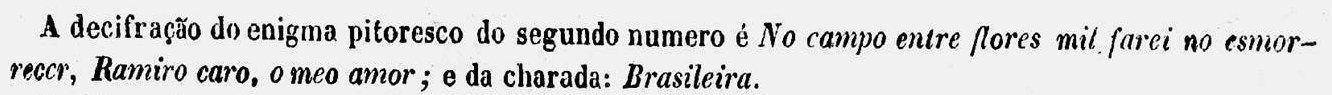
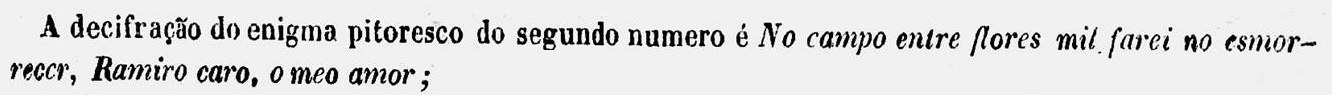
Don't give away the charada's answer on the enigma pages
Remove it from the text in all three languages and cover it in the
printed-solution clipping and the page-72 scan.

Claude-Session: https://claude.ai/code/session_01YYe7oe1eryyY7ZpUAcCfoz

Changed region(s): [[0.3078, 0.6526, 0.5848, 0.9474], [0.4002, 0.5263, 0.4309, 0.5474]]

diff --git a/games/enigma-pitoresco.html b/games/enigma-pitoresco.html
@@ -274,7 +274,7 @@
     <p class="answer-g" data-i18n="answerGloss"></p>
 
     <h2 id="revealTitle" data-i18n="publishedTitle">As the magazine printed it</h2>
-    <div class="clip"><img src="../images/enigma-pitoresco-solucao.jpg" alt="Printed solution: A decifração do enigma pitoresco do segundo numero é No campo entre flores mil farei no esmorrecer, Ramiro caro, o meo amor; e da charada: Brasileira." width="1332" height="95"></div>
+    <div class="clip"><img src="../images/enigma-pitoresco-solucao.jpg" alt="Printed solution: A decifração do enigma pitoresco do segundo numero é No campo entre flores mil farei no esmorrecer, Ramiro caro, o meo amor; followed by the charada's answer, covered here." width="1332" height="95"></div>
     <p class="clipcap" data-i18n="publishedCap"></p>
 
     <h3 data-i18n="keyTitle">Picture by picture</h3>
@@ -339,7 +339,7 @@
       revealEyebrow: "The answer",
       answerGloss: "“In the field among a thousand flowers I will not lose heart, dear Ramiro, my love.”",
       publishedTitle: "As the magazine printed it",
-      publishedCap: "The solution, printed in the following issue of Illustração Brazileira (p. 72).",
+      publishedCap: "The solution, printed in the following issue of Illustração Brazileira (p. 72). The charada's answer, printed after it, is covered so it doesn't spoil that game.",
       keyTitle: "Picture by picture",
       looseTitle: "Loose ends",
       loose1: "Three readings are best guesses: Mercury as nó, the Italian city as Pó, and the seated man as roer. The printed solution confirms the sounds, not the words behind them.",
@@ -350,7 +350,7 @@
       read2: "Yet the sentence cannot be built without it. ES, the first syllable of esmorecer, comes only from reading a Black man as escravo. Every other human figure stands for something else: gods for love and for a knot, a crowned man for kingship, a white man in a top hat for an everyday action. Only the Black figure stands for a condition of servitude.",
       read3: "In 1854 the Brazilian campo, the field of the love note, was worked overwhelmingly by enslaved people. The puzzle turns that labor into one disposable syllable inside a romance.",
       reflect: "To finish the sentence, you had to read one man the way a slaveholding society read him. What else in these pictures did you accept without noticing?",
-      analyzeText: "Zoom in on the enigma, the page it was printed on and the page where its answer appeared, and see how each picture carries its message. The same page also holds the charada pitoresca, whose answer is brazileira.",
+      analyzeText: "Zoom in on the enigma, the page it was printed on and the page where its answer appeared, and see how each picture carries its message. The same page also holds the charada pitoresca.",
       charadaCta: "Play the charada", analyzeCta: "Analyze the enigma",
       credit: "“Enigma pitoresco,” offered by João José de Moraes Tavares to Dr. Ernesto de S. Oliveira Coutinho, Illustração Brazileira, Rio de Janeiro, 1854; solution from the following issue. Biblioteca Nacional Digital do Brasil.",
       orphan: "No picture gives this o."
@@ -382,7 +382,7 @@
       revealEyebrow: "La respuesta",
       answerGloss: "«En el campo, entre mil flores, no me desanimaré, querido Ramiro, mi amor.»",
       publishedTitle: "Tal como lo imprimió la revista",
-      publishedCap: "La solución, impresa en el número siguiente de Illustração Brazileira (p. 72).",
+      publishedCap: "La solución, impresa en el número siguiente de Illustração Brazileira (p. 72). La respuesta de la charada, impresa a continuación, está tapada para no estropear ese juego.",
       keyTitle: "Imagen por imagen",
       looseTitle: "Cabos sueltos",
       loose1: "Tres lecturas son hipótesis: Mercurio como nó, la ciudad italiana como Pó y el hombre sentado como roer. La solución impresa confirma los sonidos, no las palabras que hay detrás.",
@@ -393,7 +393,7 @@
       read2: "Sin embargo, la frase no puede construirse sin ella. ES, la primera sílaba de esmorecer, sale solo de leer a un hombre negro como escravo. Todas las demás figuras humanas representan otra cosa: dioses para el amor y para un nudo, un hombre coronado para la realeza, un hombre blanco con sombrero de copa para una acción cotidiana. Solo la figura negra representa una condición de servidumbre.",
       read3: "En 1854, el campo brasileño, el campo de la nota de amor, lo trabajaban sobre todo personas esclavizadas. El acertijo convierte ese trabajo en una sílaba desechable dentro de un romance.",
       reflect: "Para terminar la frase, tuviste que leer a un hombre como lo leía una sociedad esclavista. ¿Qué más aceptaste en estas imágenes sin darte cuenta?",
-      analyzeText: "Acércate al enigma, a la página donde se imprimió y a la página donde apareció su respuesta, y mira cómo cada imagen transmite su mensaje. La misma página trae también la charada pitoresca, cuya respuesta es brazileira.",
+      analyzeText: "Acércate al enigma, a la página donde se imprimió y a la página donde apareció su respuesta, y mira cómo cada imagen transmite su mensaje. La misma página trae también la charada pitoresca.",
       charadaCta: "Jugar la charada", analyzeCta: "Analizar el enigma",
       credit: "«Enigma pitoresco», ofrecido por João José de Moraes Tavares al Dr. Ernesto de S. Oliveira Coutinho, Illustração Brazileira, Río de Janeiro, 1854; solución del número siguiente. Biblioteca Nacional Digital do Brasil.",
       orphan: "Ninguna imagen da esta o."
@@ -425,7 +425,7 @@
       revealEyebrow: "A resposta",
       answerGloss: "“No campo, entre mil flores, não vou esmorecer, Ramiro querido, meu amor.”",
       publishedTitle: "Como a revista publicou",
-      publishedCap: "A decifração, publicada no número seguinte da Illustração Brazileira (p. 72).",
+      publishedCap: "A decifração, publicada no número seguinte da Illustração Brazileira (p. 72). A resposta da charada, impressa em seguida, está coberta para não estragar aquele jogo.",
       keyTitle: "Imagem por imagem",
       looseTitle: "Pontas soltas",
       loose1: "Três leituras são hipóteses: Mercúrio como nó, a cidade italiana como Pó e o homem sentado como roer. A decifração impressa confirma os sons, não as palavras por trás deles.",
@@ -436,7 +436,7 @@
       read2: "Mas a frase não se monta sem ela. ES, a primeira sílaba de esmorecer, só sai de ler um homem negro como escravo. Todas as outras figuras humanas representam outra coisa: deuses para o amor e para um nó, um homem coroado para a realeza, um homem branco de cartola para uma ação cotidiana. Só a figura negra representa uma condição de servidão.",
       read3: "Em 1854, o campo brasileiro, o campo do bilhete de amor, era trabalhado sobretudo por pessoas escravizadas. O enigma transforma esse trabalho numa sílaba descartável dentro de um romance.",
       reflect: "Para terminar a frase, você teve de ler um homem como uma sociedade escravista o lia. O que mais nestas imagens você aceitou sem perceber?",
-      analyzeText: "Aproxime-se do enigma, da página em que foi impresso e da página em que saiu a resposta, e veja como cada imagem transmite sua mensagem. A mesma página traz também a charada pitoresca, cuja resposta é brazileira.",
+      analyzeText: "Aproxime-se do enigma, da página em que foi impresso e da página em que saiu a resposta, e veja como cada imagem transmite sua mensagem. A mesma página traz também a charada pitoresca.",
       charadaCta: "Jogar a charada", analyzeCta: "Analisar o enigma",
       credit: "“Enigma pitoresco”, oferecido por João José de Moraes Tavares ao Dr. Ernesto de S. Oliveira Coutinho, Illustração Brazileira, Rio de Janeiro, 1854; decifração do número seguinte. Biblioteca Nacional Digital do Brasil.",
       orphan: "Nenhuma imagem dá este o."

diff --git a/games/enigma-pitoresco-analysis.html b/games/enigma-pitoresco-analysis.html
@@ -406,29 +406,29 @@
                    "A dedicatória mostra para quem o enigma foi feito: homens instruídos e titulados, escrevendo uns para os outros e para os leitores letrados, em geral abastados, de uma revista carioca. O leitor que o enigma imagina vê as pessoas escravizadas de fora, como uma categoria com nome. Nada nele imagina uma pessoa escravizada, ou um brasileiro negro livre, como quem segura a revista."] }
     },
     charada: {
-      en: { title: "Two puzzles, one page", label: "Below the enigma, the charada pitoresca adds up to brazileira.",
-            body: ["The enigma shares its page with the charada pitoresca, whose answer is brazileira: an idealized Indigenous man plus cultivated land equals a white, Europeanized Brazilian woman.",
+      en: { title: "Two puzzles, one page", label: "Below the enigma, the charada pitoresca turns three pictures into one word about who belongs to the nation.",
+            body: ["The enigma shares its page with the charada pitoresca, a three-picture puzzle: an idealized Indigenous man and a fenced, cultivated field add up to a single word, illustrated by a white woman in European fashion.",
                    "Read together, the two puzzles divide the work. The charada defines who the Brazilian is, and Black Brazilians do not appear in it at all. The enigma is where a Black man does appear, and only as escravo, a syllable in someone else's love note. Between them, they draw the boundaries of the nation the magazine imagined."] },
-      es: { title: "Dos acertijos, una página", label: "Debajo del enigma, la charada pitoresca suma brazileira.",
-            body: ["El enigma comparte página con la charada pitoresca, cuya respuesta es brazileira: un hombre indígena idealizado más una tierra cultivada da como resultado una mujer brasileña blanca y europeizada.",
+      es: { title: "Dos acertijos, una página", label: "Debajo del enigma, la charada pitoresca convierte tres imágenes en una palabra sobre quién pertenece a la nación.",
+            body: ["El enigma comparte página con la charada pitoresca, un acertijo de tres imágenes: un hombre indígena idealizado y un campo cercado y cultivado suman una sola palabra, ilustrada por una mujer blanca vestida a la moda europea.",
                    "Leídos juntos, los dos acertijos se reparten el trabajo. La charada define quién es brasileño, y los brasileños negros no aparecen en ella. El enigma es donde sí aparece un hombre negro, y solo como escravo, una sílaba en la nota de amor de otra persona. Entre los dos trazan los límites de la nación que imaginaba la revista."] },
-      pt: { title: "Dois enigmas, uma página", label: "Abaixo do enigma, a charada pitoresca soma brazileira.",
-            body: ["O enigma divide a página com a charada pitoresca, cuja resposta é brazileira: um homem indígena idealizado mais a terra cultivada resulta numa mulher brasileira branca e europeizada.",
+      pt: { title: "Dois enigmas, uma página", label: "Abaixo do enigma, a charada pitoresca transforma três imagens numa palavra sobre quem pertence à nação.",
+            body: ["O enigma divide a página com a charada pitoresca, uma charada de três imagens: um homem indígena idealizado e um campo cercado e cultivado somam uma única palavra, ilustrada por uma mulher branca vestida à moda europeia.",
                    "Lidos juntos, os dois enigmas dividem o trabalho. A charada define quem é brasileiro, e os brasileiros negros não aparecem nela. O enigma é onde um homem negro aparece, e só como escravo, uma sílaba no bilhete de amor de outra pessoa. Juntos, eles traçam os limites da nação que a revista imaginava."] }
     },
     solution: {
       en: { title: "The answer, one issue later", label: "The magazine printed the solution in its following number, with two slips.",
-            body: ["The solution appeared near the bottom of page 72 of the following issue, beside the answer to the charada, Brasileira.",
+            body: ["The solution appeared near the bottom of page 72 of the following issue, followed by the answer to the charada, covered here so it doesn't spoil that game.",
                    "> No campo entre flores mil farei no esmorrecer, Ramiro caro, o meo amor.",
                    "Even the printed answer has slips. It says no (in) where the tilde over the ship asks for não (not), and it doubles the r in esmorecer.",
                    "The magazine gave only the sentence, not the reasoning. Readers worked out for themselves how each picture became a sound, which is why a few readings, such as Mercury as nó, are still uncertain today."] },
       es: { title: "La respuesta, un número después", label: "La revista imprimió la solución en el número siguiente, con dos erratas.",
-            body: ["La solución apareció cerca del pie de la página 72 del número siguiente, junto a la respuesta de la charada, Brasileira.",
+            body: ["La solución apareció cerca del pie de la página 72 del número siguiente, seguida de la respuesta de la charada, tapada aquí para no estropear ese juego.",
                    "> No campo entre flores mil farei no esmorrecer, Ramiro caro, o meo amor.",
                    "Incluso la respuesta impresa tiene erratas. Dice no (en) donde la tilde sobre el barco pide não (no), y duplica la r de esmorecer.",
                    "La revista dio solo la frase, no el razonamiento. Los lectores averiguaban por su cuenta cómo cada imagen se convertía en sonido, y por eso algunas lecturas, como Mercurio por nó, siguen siendo inciertas."] },
       pt: { title: "A resposta, um número depois", label: "A revista publicou a decifração no número seguinte, com dois erros.",
-            body: ["A decifração saiu perto do pé da página 72 do número seguinte, ao lado da resposta da charada, Brasileira.",
+            body: ["A decifração saiu perto do pé da página 72 do número seguinte, seguida da resposta da charada, coberta aqui para não estragar aquele jogo.",
                    "> No campo entre flores mil farei no esmorrecer, Ramiro caro, o meo amor.",
                    "Até a resposta impressa tem erros. Diz no onde o til sobre o navio pede não, e dobra o r de esmorecer.",
                    "A revista deu só a frase, não o raciocínio. Os leitores descobriam sozinhos como cada imagem virava som, e por isso algumas leituras, como Mercúrio por nó, continuam incertas."] }
